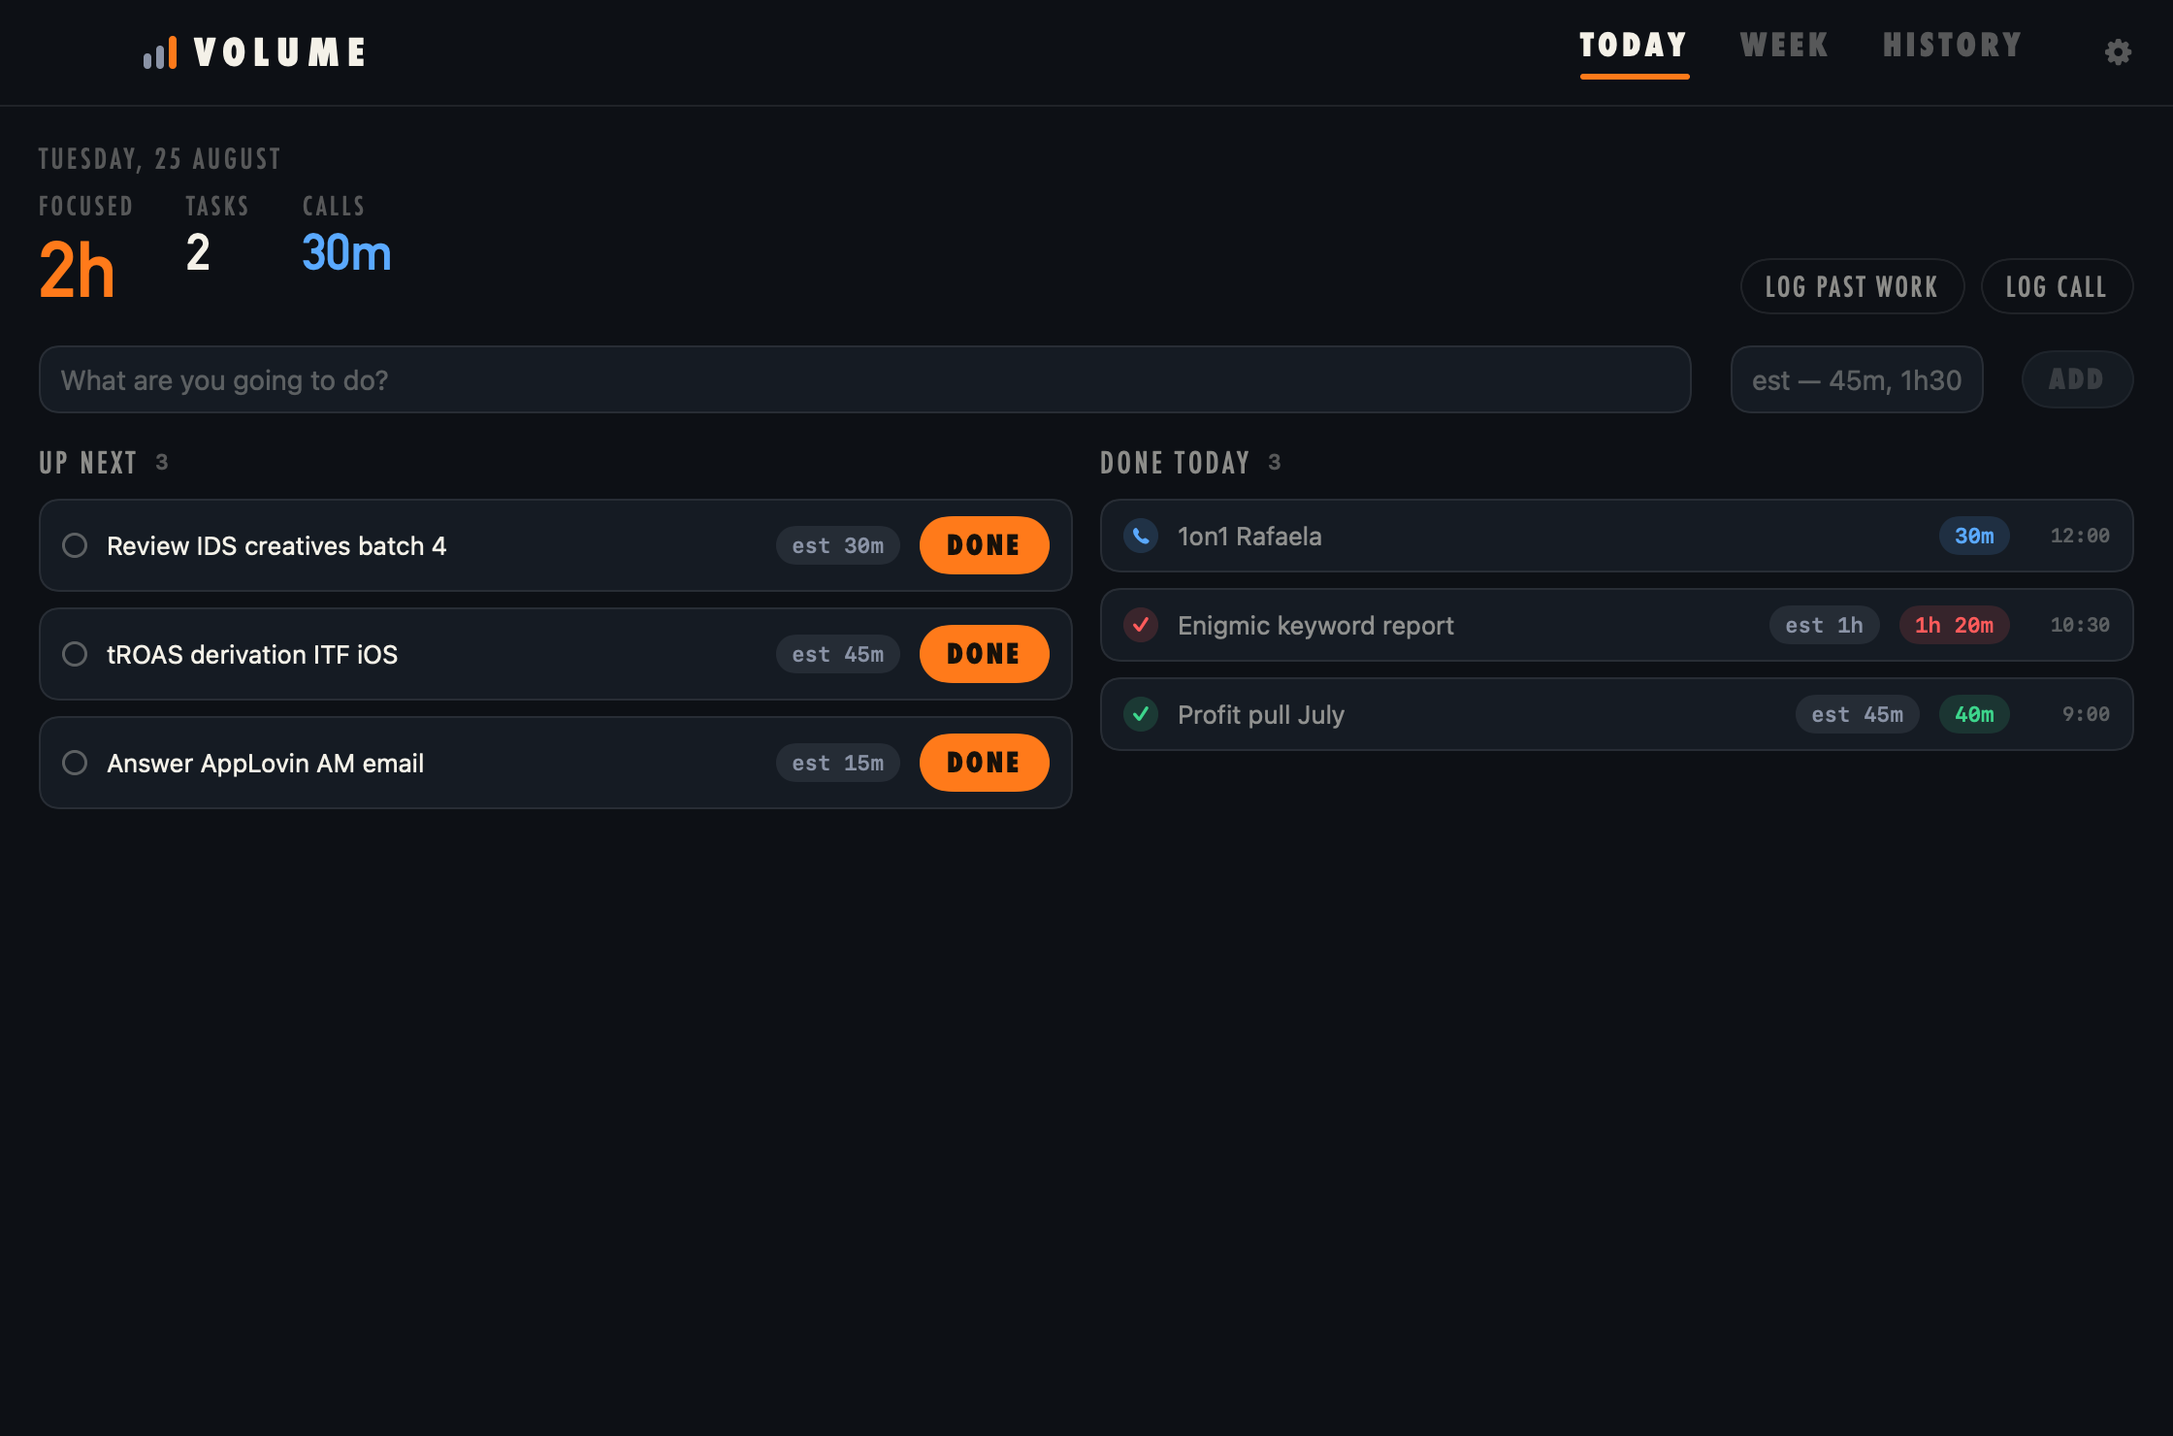
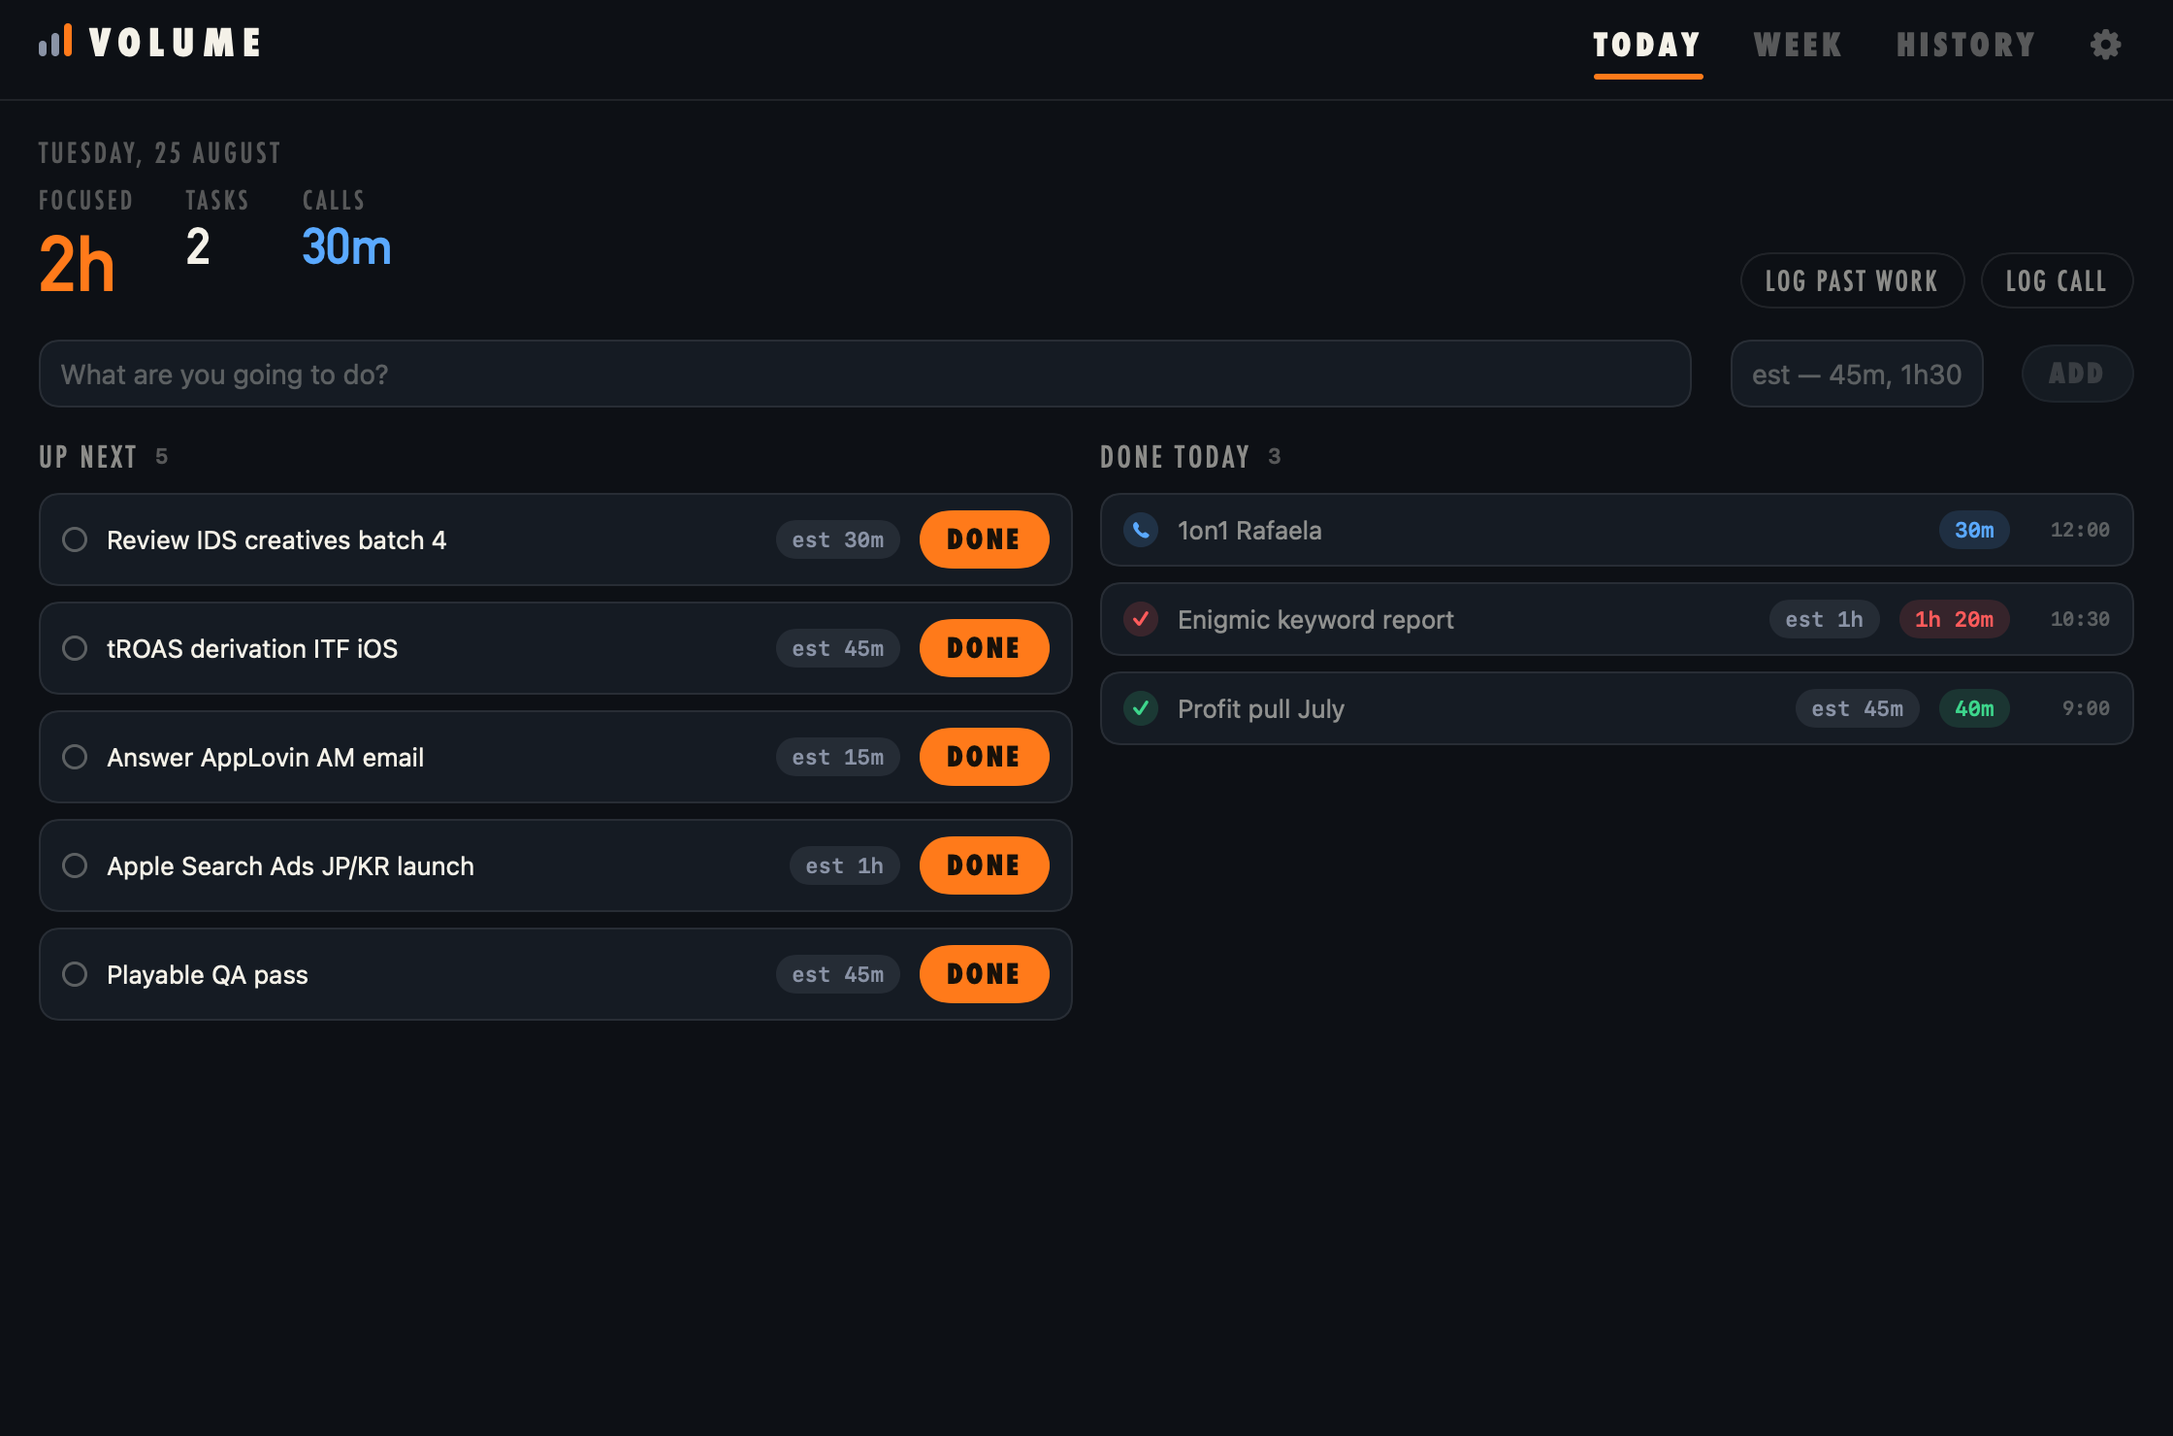
Menu bar scoreboard, flush-left header, responsive Today lanes
- MenuBarExtra: the three-bar mark in the menu bar opens today's focused
  time, tasks and calls. Template image, so it tints itself.
- Header: the window's safe area already clears the traffic lights, so the
  wordmark sits flush at the left edge; the gear moves into the tab row at
  the tabs' own size and baseline.
- Today: lanes measure their container — side by side when there's room,
  Done today stacked under Up next when there isn't. Window minimum drops
  to 640x560 so half-screen actually reaches that layout.
- AppSettings becomes shared so the menu bar panel resolves the same theme.
- Renderer: VOLUME_RENDER_W/H overrides and a menu bar preview.
- README screenshots regenerated.

diff --git a/Sources/Volume/TodayView.swift b/Sources/Volume/TodayView.swift
@@ -9,8 +9,12 @@ struct TodayView: View {
     @State private var showRetro = false
     @State private var showCall = false
     @State private var now = Date.now
+    @State private var laneWidth: CGFloat = 1000
 
     enum Field { case title, estimate }
+
+    /// Below this the two lanes stop fitting side by side and stack instead.
+    private var stacked: Bool { laneWidth < 760 }
 
     private var canAdd: Bool {
         !title.trimmingCharacters(in: .whitespaces).isEmpty
@@ -79,30 +83,59 @@ struct TodayView: View {
             .padding(.horizontal, 20)
             .padding(.bottom, 16)
 
-            // Two lanes
-            HStack(alignment: .top, spacing: 14) {
-                Lane(title: "Up next", count: planned.count,
-                     empty: "Nothing planned. Add the first task above.") {
-                    ForEach(planned) { e in
-                        PlannedRow(entry: e) { completing = e }
+            // Lanes: side by side when there is room, stacked when there isn't.
+            Group {
+                if stacked {
+                    MaybeScroll {
+                        VStack(alignment: .leading, spacing: 18) {
+                            upNextLane(planned, scrolls: false)
+                            doneLane(doneToday, scrolls: false)
+                        }
                     }
-                }
-                Lane(title: "Done today", count: doneToday.count,
-                     empty: "Nothing yet. Finish one and log it.") {
-                    ForEach(doneToday) { e in
-                        DoneRow(entry: e)
+                } else {
+                    HStack(alignment: .top, spacing: 14) {
+                        upNextLane(planned, scrolls: true)
+                        doneLane(doneToday, scrolls: true)
                     }
                 }
             }
             .padding(.horizontal, 20)
             .padding(.bottom, 18)
             .animation(.spring(duration: 0.4), value: store.entries)
+            .background(
+                GeometryReader { g in
+                    Color.clear.preference(key: LaneWidthKey.self, value: g.size.width)
+                }
+            )
+            .onPreferenceChange(LaneWidthKey.self) { w in
+                if abs(w - laneWidth) > 0.5 { laneWidth = w }
+            }
         }
         .sheet(item: $completing) { CompleteSheet(entry: $0) }
         .sheet(isPresented: $showRetro) { RetroSheet() }
         .sheet(isPresented: $showCall) { CallSheet() }
         .onAppear { focusedField = .title }
         .onReceive(Timer.publish(every: 30, on: .main, in: .common).autoconnect()) { now = $0 }
+    }
+
+    @ViewBuilder
+    private func upNextLane(_ planned: [Entry], scrolls: Bool) -> some View {
+        Lane(title: "Up next", count: planned.count,
+             empty: "Nothing planned. Add the first task above.", scrolls: scrolls) {
+            ForEach(planned) { e in
+                PlannedRow(entry: e) { completing = e }
+            }
+        }
+    }
+
+    @ViewBuilder
+    private func doneLane(_ doneToday: [Entry], scrolls: Bool) -> some View {
+        Lane(title: "Done today", count: doneToday.count,
+             empty: "Nothing yet. Finish one and log it.", scrolls: scrolls) {
+            ForEach(doneToday) { e in
+                DoneRow(entry: e)
+            }
+        }
     }
 
     private func add() {
@@ -116,10 +149,21 @@ struct TodayView: View {
     }
 }
 
+/// Width of the lane container, so Today can pick its layout.
+struct LaneWidthKey: PreferenceKey {
+    static var defaultValue: CGFloat { 0 }
+    static func reduce(value: inout CGFloat, nextValue: () -> CGFloat) {
+        value = max(value, nextValue())
+    }
+}
+
 struct Lane<Content: View>: View {
     let title: String
     let count: Int
     let empty: String
+    /// Side by side, each lane scrolls itself. Stacked, the page scrolls instead
+    /// and the lane sizes to its rows.
+    var scrolls: Bool = true
     @ViewBuilder var content: Content
 
     var body: some View {
@@ -135,13 +179,15 @@ struct Lane<Content: View>: View {
                     .font(.system(size: 12))
                     .foregroundStyle(Theme.faint)
                     .padding(.top, 2)
-                Spacer(minLength: 0)
-            } else {
+                if scrolls { Spacer(minLength: 0) }
+            } else if scrolls {
                 MaybeScroll {
                     LazyVStack(spacing: 8) { content }
                 }
+            } else {
+                LazyVStack(spacing: 8) { content }
             }
         }
-        .frame(maxWidth: .infinity, maxHeight: .infinity, alignment: .topLeading)
+        .frame(maxWidth: .infinity, maxHeight: scrolls ? .infinity : nil, alignment: .topLeading)
     }
 }

diff --git a/Sources/Volume/VolumeApp.swift b/Sources/Volume/VolumeApp.swift
@@ -23,10 +23,17 @@ struct VolumeApp: App {
         WindowGroup(id: "main") {
             RootView()
                 .environmentObject(store)
-                .frame(minWidth: 980, minHeight: 640)
+                .frame(minWidth: 640, minHeight: 560)
         }
         .windowStyle(.hiddenTitleBar)
         .defaultSize(width: 1120, height: 740)
+
+        MenuBarExtra {
+            MenuBarPanel().environmentObject(store)
+        } label: {
+            Image(nsImage: MenuBarIcon.image)
+        }
+        .menuBarExtraStyle(.window)
     }
 }
 
@@ -40,7 +47,7 @@ struct RootView: View {
     @EnvironmentObject var store: Store
     @State private var tab: AppTab
     @State private var showSettings = false
-    @StateObject private var settings = AppSettings()
+    @ObservedObject private var settings = AppSettings.shared
     @Environment(\.colorScheme) private var systemScheme
     @Environment(\.openWindow) private var openWindow
 
@@ -97,9 +104,10 @@ struct TopBar: View {
     @Namespace private var underline
 
     var body: some View {
-        HStack(spacing: 24) {
-            HStack(spacing: 9) {
+        HStack(alignment: .firstTextBaseline, spacing: 24) {
+            HStack(alignment: .firstTextBaseline, spacing: 9) {
                 BarsGlyph()
+                    .alignmentGuide(.firstTextBaseline) { $0[.bottom] }
                 Text("VOLUME")
                     .font(Theme.labelHeavy(19))
                     .tracking(4)
@@ -112,12 +120,14 @@ struct TopBar: View {
                         withAnimation(.spring(response: 0.35, dampingFraction: 0.8)) { tab = t }
                     }
                 }
+                TabIcon(symbol: "gearshape.fill") { showSettings = true }
             }
-            IconButton(symbol: "gearshape.fill") { showSettings = true }
         }
-        .padding(.leading, 74)
-        .padding(.trailing, 14)
-        .frame(height: 54)
+        .padding(.leading, 20)
+        .padding(.trailing, 16)
+        // The window's safe area already keeps this row clear of the traffic
+        // lights, so the wordmark can sit flush at the left edge.
+        .padding(.vertical, 10)
         .background(Theme.bg)
     }
 }
@@ -161,5 +171,38 @@ struct TabButton: View {
         }
         .buttonStyle(.plain)
         .onHover { hover = $0 }
+    }
+}
+
+/// An icon that lives in the tab row: same optical size, same baseline, same
+/// underline slot — so it reads as one of the options rather than a stray glyph.
+struct TabIcon: View {
+    let symbol: String
+    let action: () -> Void
+    @State private var hover = false
+
+    var body: some View {
+        Button(action: action) {
+            VStack(spacing: 5) {
+                // A hidden label glyph sizes the icon slot, so the gear inherits
+                // the tabs' exact height and baseline instead of guessing at them.
+                Text("W")
+                    .font(Theme.labelHeavy(16))
+                    .foregroundStyle(.clear)
+                    .frame(width: 17)
+                    .overlay {
+                        Image(systemName: symbol)
+                            .font(.system(size: 15, weight: .semibold))
+                            .foregroundStyle(hover ? Theme.dim : Theme.faint)
+                    }
+                Color.clear.frame(width: 17, height: 3)
+            }
+            .fixedSize()
+            .padding(.horizontal, 10)
+            .contentShape(Rectangle())
+        }
+        .buttonStyle(.plain)
+        .onHover { hover = $0 }
+        .animation(.easeOut(duration: 0.12), value: hover)
     }
 }

diff --git a/Sources/Volume/MenuBar.swift b/Sources/Volume/MenuBar.swift
@@ -1,0 +1,67 @@
+import SwiftUI
+import AppKit
+
+/// The three-bar mark, drawn as a template image so macOS tints it to match
+/// whatever is behind the menu bar.
+enum MenuBarIcon {
+    static let image: NSImage = {
+        let img = NSImage(size: NSSize(width: 17, height: 14), flipped: false) { _ in
+            NSColor.black.setFill()
+            for (i, h) in [CGFloat(5), 8, 12].enumerated() {
+                NSBezierPath(roundedRect: NSRect(x: 1.5 + CGFloat(i) * 5, y: 1, width: 3.5, height: h),
+                             xRadius: 1.75, yRadius: 1.75).fill()
+            }
+            return true
+        }
+        img.isTemplate = true
+        return img
+    }()
+}
+
+/// Today's scoreboard, one click away from anywhere.
+struct MenuBarPanel: View {
+    @EnvironmentObject var store: Store
+    @ObservedObject private var settings = AppSettings.shared
+    @Environment(\.colorScheme) private var systemScheme
+    @State private var now = Date.now
+
+    private var scheme: ColorScheme {
+        switch settings.appearance {
+        case "light": .light
+        case "dark": .dark
+        default: systemScheme
+        }
+    }
+
+    var body: some View {
+        let resolved = scheme
+        let _ = { Theme.mode = resolved }()
+        let day = Stats.dayInterval(now)
+        let focused = Stats.focusedMinutes(store.entries, in: day)
+        let calls = Stats.callMinutes(store.entries, in: day)
+        let tasks = Stats.completed(store.entries, kind: .task, in: day).count
+
+        VStack(alignment: .leading, spacing: 14) {
+            HStack(spacing: 9) {
+                BarsGlyph()
+                Eyebrow(text: now.formatted(.dateTime.weekday(.wide).day().month(.wide)),
+                        color: Theme.faint, size: 13)
+                Spacer(minLength: 10)
+                IconButton(symbol: "arrow.up.forward") { QuickAdd.shared.openMainApp() }
+            }
+            HStack(alignment: .firstTextBaseline, spacing: 22) {
+                StatBlock(label: "Focused", value: TimeParse.format(focused),
+                          color: Theme.accent, size: 32)
+                StatBlock(label: "Tasks", value: "\(tasks)", size: 24)
+                StatBlock(label: "Calls", value: TimeParse.format(calls),
+                          color: calls > 0 ? Theme.call : Theme.dim, size: 24)
+            }
+        }
+        .padding(16)
+        .frame(width: 292, alignment: .leading)
+        .background(Theme.bg)
+        .environment(\.colorScheme, resolved)
+        .onReceive(Timer.publish(every: 30, on: .main, in: .common).autoconnect()) { now = $0 }
+        .onAppear { store.reload() }
+    }
+}

diff --git a/Sources/Volume/Renderer.swift b/Sources/Volume/Renderer.swift
@@ -10,11 +10,14 @@ enum Renderer {
         Theme.mode = light ? .light : .dark
         let store = Store()
         store.tagPendingSync()
+        let env = ProcessInfo.processInfo.environment
+        let w = Double(env["VOLUME_RENDER_W"] ?? "") ?? 1120
+        let h = Double(env["VOLUME_RENDER_H"] ?? "") ?? 740
         try? FileManager.default.createDirectory(atPath: dir, withIntermediateDirectories: true)
         for tab in AppTab.allCases {
             let content = RootView(tab: tab)
                 .environmentObject(store)
-                .frame(width: 1120, height: 740)
+                .frame(width: w, height: h)
                 .environment(\.colorScheme, light ? .light : .dark)
             let renderer = ImageRenderer(content: content)
             renderer.scale = 2
@@ -26,6 +29,21 @@ enum Renderer {
                 continue
             }
             let url = URL(fileURLWithPath: dir).appendingPathComponent("\(tab.rawValue.lowercased()).png")
+            try? png.write(to: url)
+            print("wrote \(url.path)")
+        }
+
+        let menuBar = MenuBarPanel()
+            .environmentObject(store)
+            .environment(\.colorScheme, light ? .light : .dark)
+            .padding(24)
+            .background(light ? Color(hex: 0xE5E2D9) : Color.black.opacity(0.94))
+        let mr = ImageRenderer(content: menuBar)
+        mr.scale = 2
+        if let img = mr.nsImage, let tiff = img.tiffRepresentation,
+           let rep = NSBitmapImageRep(data: tiff),
+           let png = rep.representation(using: .png, properties: [:]) {
+            let url = URL(fileURLWithPath: dir).appendingPathComponent("menubar.png")
             try? png.write(to: url)
             print("wrote \(url.path)")
         }

diff --git a/Sources/Volume/Settings.swift b/Sources/Volume/Settings.swift
@@ -4,6 +4,10 @@ import ServiceManagement
 
 @MainActor
 final class AppSettings: ObservableObject {
+    /// One instance for the whole app — the window and the menu bar panel
+    /// resolve appearance from the same place.
+    static let shared = AppSettings()
+
     @Published var appearance: String {
         didSet { UserDefaults.standard.set(appearance, forKey: "appearance") }
     }

diff --git a/README.md b/README.md
@@ -33,10 +33,20 @@ no Gatekeeper quarantine to fight.
   goes green. Tiles for tasks done, estimation accuracy, best day, call load.
 - **History** — every day archived, grouped by week.
 
+Up next and Done today sit side by side at full width, and stack when you pull
+the window in to half a screen.
+
+<img src="assets/screenshots/today-narrow.png" width="420" alt="Today at half width">
+
 **Quick add from anywhere**: press **⇧⌘Space** — a floating one-liner pops up.
 Type `review creatives 30m`, Enter. Tab opens the full app.
 
 ![Quick add](assets/screenshots/quickadd.png)
+
+**Menu bar scoreboard**: the mark sits in the menu bar all day. Click it for
+today's focused time, tasks and calls without switching windows.
+
+<img src="assets/screenshots/menubar.png" width="360" alt="Menu bar panel">
 
 **Calendar sync**: meetings (2+ attendees, not declined) auto-log as call time
 via EventKit — the OS does the syncing, the app never touches the network.
@@ -58,8 +68,8 @@ Two backends, picked automatically:
 
 Neither sends anything anywhere.
 
-**Settings** (⚙): dark / light / system appearance, calendar sync toggle +
-status, auto-tagging backend + re-tag, start at login.
+**Settings** (⚙, top right): dark / light / system appearance, calendar sync
+toggle + status, auto-tagging backend + re-tag, start at login.
 
 ![Light mode](assets/screenshots/week-light.png)
 
